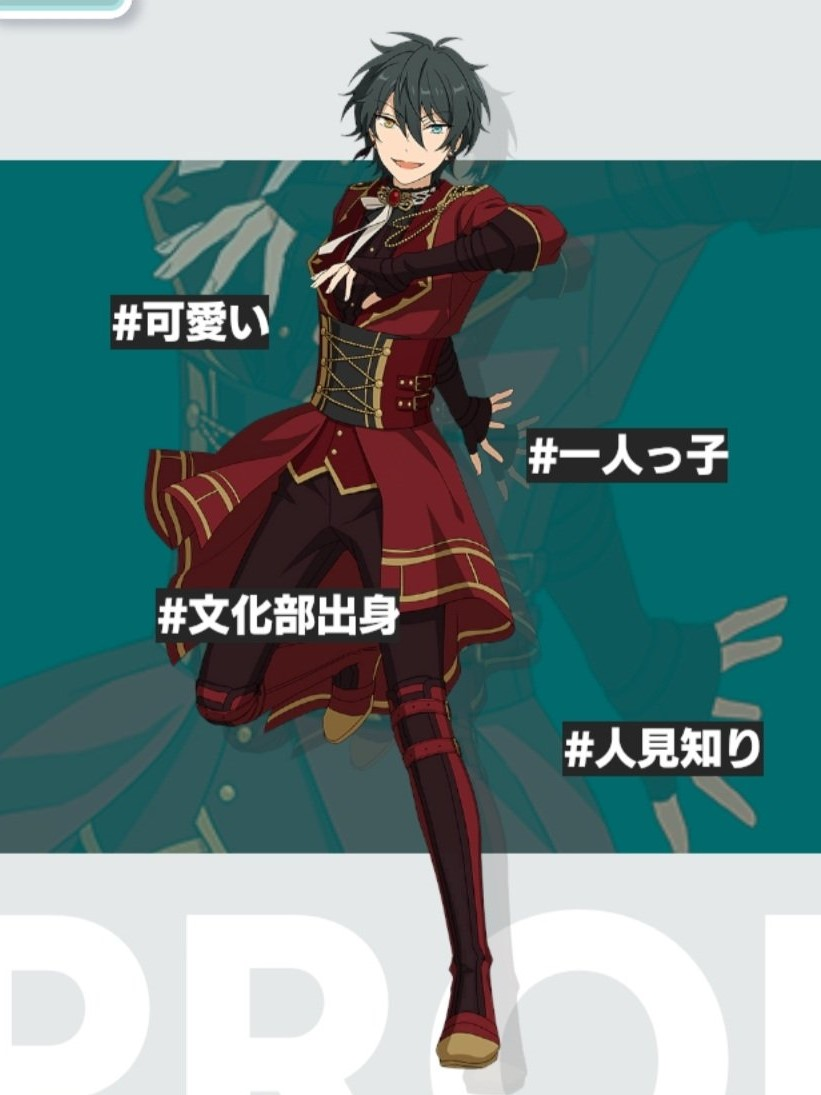
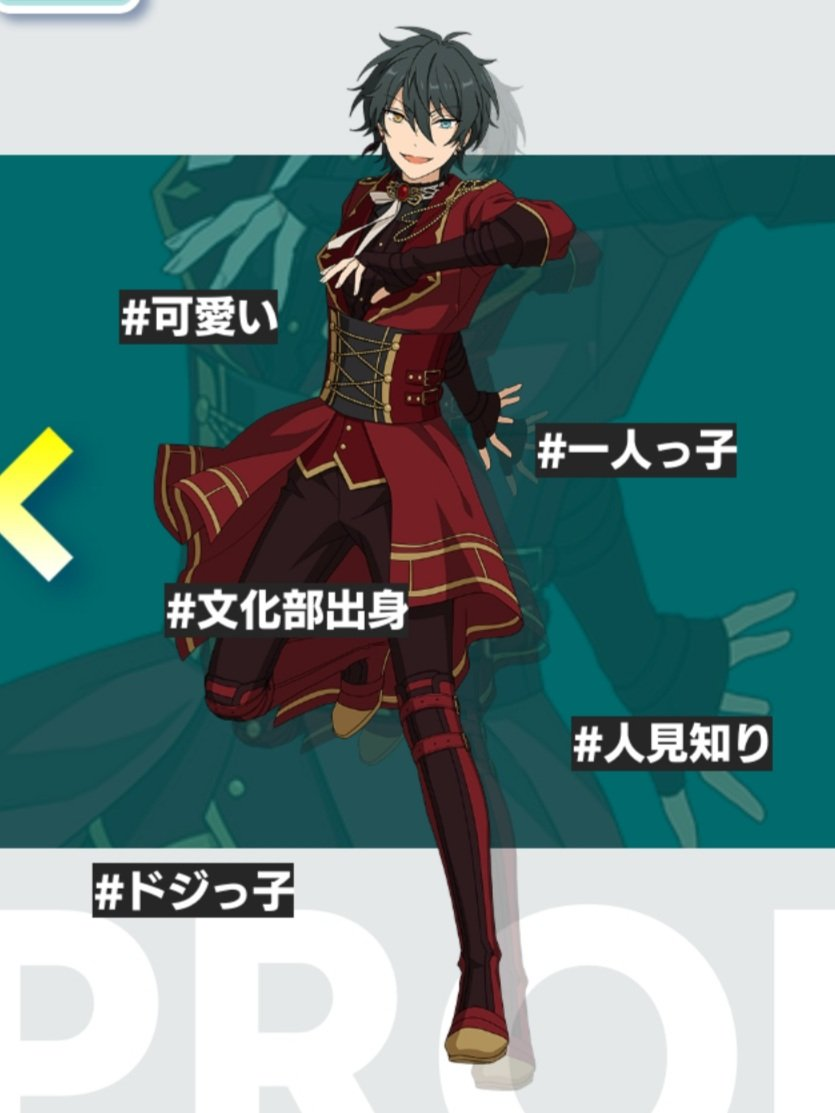
oshi room

diff --git a/story/misc/oshi room/directory.html b/story/misc/oshi room/directory.html
@@ -139,8 +139,8 @@
 		<div class="storysection">
 			<div class="storysectiontitle" id="profile"><b>Profile</b> プロフィール <a href="#table-of-contents"><i class="fa-solid fa-chevron-up"></i></a></div>
 			<div class="oshi-room-row">
-			<div class="oshi-room-column"><p><b>Mika:</b> #Cute, #Only child, #Was in a cultural club, #Shy around strangers</p><img src="/media/misc/oshi room/oshi room 1.jpg"></div>
-			<div class="oshi-room-column"><p><b>Shu:</b> #Cool, #Younger sibling, #Was in a cultural club, #Loves himself, #Shy around strangers</p><img src="/media/misc/oshi room/oshi room 2.jpg"></div>
+			<div class="oshi-room-column"><p><b>Mika:</b> #Cute, #Only child, #Was in a cultural club, #Shy around strangers, #Clumsy</p><img src="/media/misc/oshi room/oshi room 1.jpg"></div>
+			<div class="oshi-room-column"><p><b>Shu:</b> #Cool, #Younger sibling, #Was in a cultural club, #Loves himself, #Shy around strangers, #Dependable person</p><img src="/media/misc/oshi room/oshi room 2.jpg"></div>
 		</div>
 		</div>
 		<br>
@@ -305,9 +305,102 @@
 						</p>
 						<figure>
 			                <img src="/media/misc/oshi room/oshi room 24.jpg">
-			            </figure>
+			      </figure>
 					</div>
 				</div>
+				<div class="minitalk-option">
+					<div class="minitalk-option_header">
+						What would you do if you ran into a ghost?
+					</div>
+					<div class="minitalk-option_content">
+						<figure>
+							<img src="/media/misc/oshi room/oshi room 25.jpg">
+						</figure>
+						<div class=msr-unit character="Mika"><div class=msr-icon><div class=msr-icon__wrapper><div class=msr-icon__base></div></div></div><div class=msr-name></div><div class=msr-line>
+							<p>Well, I like spooky things like that. But I'd be worried 'bout it makin' trouble fer Oshi-san... I wonder if I'd be able t' exorcise it?</p>
+						</div></div>
+						<div class=msr-unit character="Shu"><div class=msr-icon><div class=msr-icon__wrapper><div class=msr-icon__base></div></div></div><div class=msr-name></div><div class=msr-line>
+							<p>Given the choice, I would rather not involve myself with it at all. But as long as it doesn't interfere with my work, I wouldn't be particularly bothered by it being there.</p>
+						</div></div>
+						<p>
+							<b>TOP:</b> Easily scared <b>BOTTOM:</b> Not easily scared<br>
+							<b>LEFT:</b> Would try to communicate <b>RIGHT:</b> Would run away
+						</p>
+						<figure>
+			                <img src="/media/misc/oshi room/oshi room 26.jpg">
+			      </figure>
+					</div>
+				</div>
+				<div class="minitalk-option">
+					<div class="minitalk-option_header">
+						How do you like your ramen?
+					</div>
+					<div class="minitalk-option_content">
+						<figure>
+							<img src="/media/misc/oshi room/oshi room 27.jpg">
+						</figure>
+						<div class=msr-unit character="Mika"><div class=msr-icon><div class=msr-icon__wrapper><div class=msr-icon__base></div></div></div><div class=msr-name></div><div class=msr-line>
+							<p>Salty, I guess? The ramen I had the other day that was real tasty had shrimp an' duck meat fer toppings, it was super fancy. ♪</p>
+						</div></div>
+						<div class=msr-unit character="Shu"><div class=msr-icon><div class=msr-icon__wrapper><div class=msr-icon__base></div></div></div><div class=msr-name></div><div class=msr-line>
+							<p>There's been an increase recently in people paying close attention not only to the ingredients in their ramen, but its appearance as well. I don't see anything wrong with choosing to eat ramen in such a way.</p>
+						</div></div>
+						<p>
+							<b>TOP:</b> Firm noodles <b>BOTTOM:</b> Soft noodles<br>
+							<b>LEFT:</b> Simple and light <b>RIGHT:</b> Thick and rich
+						</p>
+						<figure>
+			                <img src="/media/misc/oshi room/oshi room 28.jpg">
+			      </figure>
+					</div>
+				</div>
+				<div class="minitalk-option">
+					<div class="minitalk-option_header">
+						If you could be on a TV show for the New Year holidays, what would it be?
+					</div>
+					<div class="minitalk-option_content">
+						<figure>
+							<img src="/media/misc/oshi room/oshi room 29.jpg">
+						</figure>
+						<div class=msr-unit character="Mika"><div class=msr-icon><div class=msr-icon__wrapper><div class=msr-icon__base></div></div></div><div class=msr-name></div><div class=msr-line>
+							<p>I'd wanna spend the New Year takin' it easy with Oshi-san... I wonder if it'd be possible ta have a laid back show called somethin' like “Spending New Years in France”?</p>
+						</div></div>
+						<div class=msr-unit character="Shu"><div class=msr-icon><div class=msr-icon__wrapper><div class=msr-icon__base></div></div></div><div class=msr-name></div><div class=msr-line>
+							<p>Well, I *am* studying abroad at the moment. I think a show introducing how New Years is celebrated in France would be exceedingly interesting.</p>
+						</div></div>
+						<p>
+							<b>TOP:</b> A variety show <b>BOTTOM:</b> A down-to-earth show<br>
+							<b>LEFT:</b> One early in the morning <b>RIGHT:</b> One late at night
+						</p>
+						<figure>
+			                <img src="/media/misc/oshi room/oshi room 30.jpg">
+			      </figure>
+					</div>
+				</div>
+				<div class="minitalk-option">
+					<div class="minitalk-option_header">
+						How much and where do you go out alone?
+					</div>
+					<div class="minitalk-option_content">
+						<figure>
+							<img src="/media/misc/oshi room/oshi room 31.jpg">
+						</figure>
+						<div class=msr-unit character="Mika"><div class=msr-icon><div class=msr-icon__wrapper><div class=msr-icon__base></div></div></div><div class=msr-name></div><div class=msr-line>
+							<p>Hm~m. I do think it can be fun ta go it alone to a certain extent, but in the end, I'd rather be with Oshi-san~ I want us ta share fun things together ♪</p>
+						</div></div>
+						<div class=msr-unit character="Shu"><div class=msr-icon><div class=msr-icon__wrapper><div class=msr-icon__base></div></div></div><div class=msr-name></div><div class=msr-line>
+							<p>To begin with, I only visit places that are quiet and free of disturbances anyway, so I do often travel on my own. I would like to visit someplace such as an art museum alone and peruse its offerings at my leisure.</p>
+						</div></div>
+						<p>
+							<b>TOP:</b> Can handle intense places alone <b>BOTTOM:</b> Can only handle peaceful places alone<br>
+							<b>LEFT:</b> Able to go out alone <b>RIGHT:</b> Unable to go out alone
+						</p>
+						<figure>
+			                <img src="/media/misc/oshi room/oshi room 32.jpg">
+			      </figure>
+					</div>
+				</div>
+
 			</div>
 	  	</div>
 	  	<br>

diff --git a/index.html b/index.html
@@ -79,6 +79,9 @@
 				<div class=scroll-column>
 					<h2>UPDATES</h2>
 
+					<h3>January 1 2025</h3>
+					<p>Updated <a href="story/misc/oshi room/directory.html">Oshi Room</a></p>
+
 					<h3>December 26 2024</h3>
 					<p>Added <a href="story/birthday/mika 2024/directory">Mika Kagehira's Birthday 2024</a></p>
 
